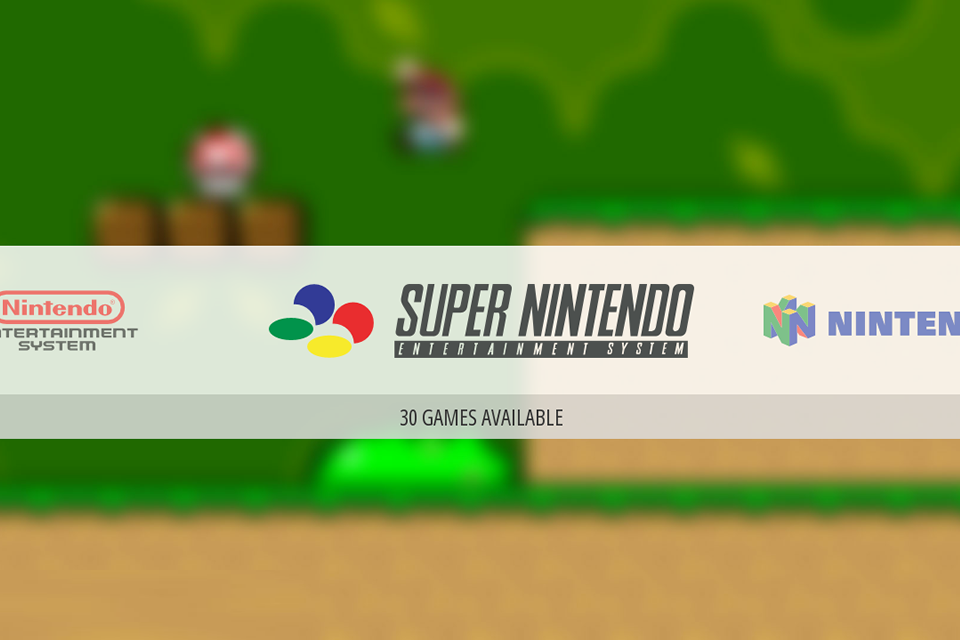
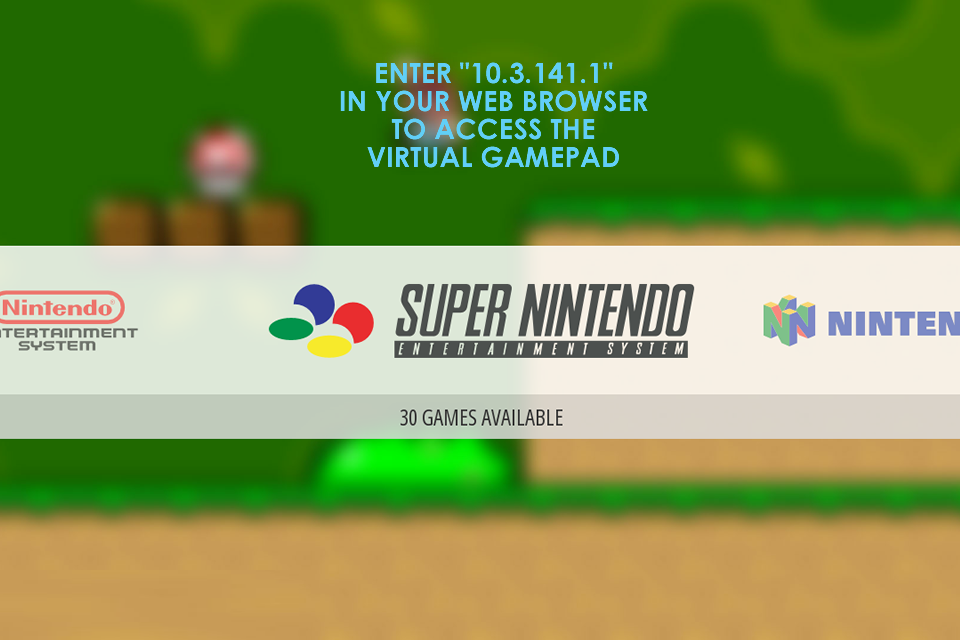
Updated the Preview
Added the right icons and added a notice on the emulation station to instruct the user how to access the gamepad.

Changed region(s): [[0.3438, 0.0938, 0.6875, 0.2812]]

diff --git a/docs/index.html b/docs/index.html
@@ -151,7 +151,7 @@
 						<div class="carousel-caption text-left">
 							<!-- First Line -->
 							<h1 class="carousel-maintitle">Subscription-Free</h1>
-							<h2 class="carousel-title">IPTV & Wireless Internet</h2>
+							<h2 class="carousel-title">Internet & IPTV Service</h2>
 							<div class="button-block">
 								<!-- Buttons Right -->
 								<div class="button-block-right">
@@ -166,7 +166,7 @@
 													<dd>
 														<ul style="display: none; overflow-x:hidden;">
 															<li>
-																<a data-featherlight="iframe" data-featherlight-iframe-allowfullscreen="true" href="demo.html" style="color:#66CCFF!important; white-space: nowrap!important; display:inline-block;"><b style="color:white; font-size:80%;margin-left:-5px; font-weight:lighter;">Interative Demo</b> <span class="glyphicon glyphicon-play" id="dropdown-glyph">&nbsp;</span></a>
+																<a data-featherlight="iframe" data-featherlight-iframe-allowfullscreen="true" href="demo.html" style="color:#66CCFF!important; white-space: nowrap!important; display:inline-block;"><b style="color:white; font-size:80%;margin-left:-5px; font-weight:lighter;">Online Preview</b> <span class="glyphicon glyphicon-play" id="dropdown-glyph">&nbsp;</span></a>
 															</li>
 															<li style="list-style: none"><span class="glyphicon glyphicon-arrow-down" style="text-align:center; color: white; margin-left:50%; opacity:0;">&nbsp;</span></li>
 															<li>
@@ -193,8 +193,8 @@
 					<div class="container carouselone">
 						<div class="carousel-caption text-left">
 							<!-- First Line -->
-							<h1 class="carousel-maintitle">A Smarter Hotspot</h1>
-							<h2 class="carousel-title">Featuring <u style="color:unset;"><a data-featherlight="iframe" data-featherlight-iframe-allowfullscreen="true" href="demo.html" style="color:unset;"><strong>Wave Apps</strong></a></u></h2><!-- Buttons Holder -->
+							<h1 class="carousel-maintitle">A Very Smart Hotspot</h1>
+							<h2 class="carousel-title">Go Ahead. <u style="color:unset;"><a data-featherlight="iframe" data-featherlight-iframe-allowfullscreen="true" href="demo.html" style="color:unset;"><strong>Preview Wave</strong></a></u></h2><!-- Buttons Holder -->
 							<div class="button-block">
 								<!-- Buttons Right -->
 								<div class="button-block-right">
@@ -209,7 +209,7 @@
 													<dd>
 														<ul style="display: none; overflow-x:hidden;">
 															<li>
-																<a data-featherlight="iframe" data-featherlight-iframe-allowfullscreen="true" href="demo.html" style="color:#66CCFF!important; white-space: nowrap!important; display:inline-block;"><b style="color:white; font-size:85%;margin-left:-5px; font-weight:lighter;">Online Demo</b> <span class="glyphicon glyphicon-play" id="dropdown-glyph">&nbsp;</span></a>
+																<a data-featherlight="iframe" data-featherlight-iframe-allowfullscreen="true" href="demo.html" style="color:#66CCFF!important; white-space: nowrap!important; display:inline-block;"><b style="color:white; font-size:85%;margin-left:-5px; font-weight:lighter;">Online Preview</b> <span class="glyphicon glyphicon-play" id="dropdown-glyph">&nbsp;</span></a>
 															</li>
 															<li style="list-style: none"><span class="glyphicon glyphicon-arrow-down" style="text-align:center; color: white; margin-left:50%; opacity:0;">&nbsp;</span></li>
 															<li>
@@ -235,11 +235,11 @@
 		</div><span class="sexy_line"></span> <!-- Video Intro -->
 		<div class="segment">
 			<h2 class="segment-title">Introduction</h2>
-			<p class="segment-paragraph">Wave® is the worlds first <strong>Free Internet and IPTV</strong> solution. The Wave Smart Home Hotspot™ has a built in Celluar Modem which works on select mobile networks. The Hotspot Menu (Dashboard) even features a multi-player game station and smart home media & control system. All of which can be accessed locally and/or remotely. The Wi-Fi Hotspot include most games consoles including the PSP, PS1 & 2 and Nintendo 64 & WII. And there's an IPTV Media Center, Smart Home Control solution (IoT) and IP Camera Monitor. The controllers for the games are emulated, so they can be brought up in most web browsers on most mobile phones.</p><!--== <a class="video-link demo-link" data-video-id="jW_GUwVie3o"></a>      =-->
+			<p class="segment-paragraph">Wave® is the worlds first <strong>Free Internet and IPTV</strong> solution. The Smart Home Hotspot™ has a built in cellular Modem which works on select mobile networks. The Hotspot Menu (Dashboard) even features a multi-player game station and smart home media & control system. All of which can be accessed locally and/or remotely. The Wi-Fi Hotspot include most games consoles including the PSP, PS1 & 2 and Nintendo 64 & WII. And there's an IPTV Media Center, Smart Home Control solution (IoT) and IP Camera Monitor. The controllers for the games are emulated, so they can be brought up in most web browsers on most mobile phones.</p><!--== <a class="video-link demo-link" data-video-id="jW_GUwVie3o"></a>      =-->
 			<h2 class="segment-title">How it Works</h2>
 			<p class="segment-paragraph">Wave® reduces internet and IPTV bills (by as much as 100%) by sponsoring and rewarding you for day to day use of our technology product(s). These rewards are in the form of cryptocurrency and are generated through ad-replacement and cryptocurrency mining, while you surf the internet and/or enjoy other Wave® applications. The funds generated will automatically transfer from your devices built in cryptocurrency wallet, to your internet Service provider (using a cryptocurrency technology called smart contracts). The result is a free internet and IPTV service.</p>
 			<h2 class="segment-title">Getting Started</h2>
-			<p class="segment-paragraph">The 4G/LTE Wi-Fi Hotspot is built to be plug & play. Simply connect the Wave Hotspot to any power outlet and it will establish a connection with your local cell provider and begin broadcasting Wi-Fi speeds of up to 50Mbps of Free Internet. Pre-Order this Product Now. </p>
+			<p class="segment-paragraph">The 4G/LTE Smart Home Hotspot™ is built to be plug & play. Simply connect the device to any power outlet and it will establish a connection with your local cell provider and begin broadcasting Wi-Fi, with Free Internet access and speeds of up to 50Mbps. </p>
 			<a class="snipcart-add-item btn add-to-cart-btn" style="left:0; margin:12px;zoom:3;padding-bottom:4px!important;" href="store/index.html" ><b style="margin:5px;padding:5px;">Order Now</b></a>
 		</div>
 		<div class="segment-bottom"></div>

diff --git a/docs/documents.html b/docs/documents.html
@@ -145,7 +145,7 @@
 								<tbody>
 									<tr>
 										<th class="add-to-cart-columb-title" scope="col" style="width: 49.9097%; opacity:0.5;">
-											<a class="btn btn-lg btn-success" data-featherlight="iframe" data-featherlight-iframe-allowfullscreen="true" href="data/docs/products/4g/build/html/index.html" style="min-width:205px!Important;"><b style="margin-left:5px;"><strong>Smart Home Hub™</strong></b></a> <strong></strong>
+											<a class="btn btn-lg btn-success" data-featherlight="iframe" data-featherlight-iframe-allowfullscreen="true" href="data/docs/products/4g/build/html/index.html" style="min-width:205px!Important;"><b style="margin-left:15px;"><strong>Smart Hotspot™</strong></b></a> <strong></strong>
 										</th>
 										<th class="add-to-cart-columb-title" scope="col" style="width: 49.9097%; opacity:0.5;">
 											<a class="btn btn-secondary role-buttons" href="data/docs/products/4g/build/latex/wave-products-4g.pdf" style="margin-left:0px; margin-top:0px!important; min-height:45px!important; padding:12.5px 10px 10px 10px!important;" target="_popup" title="Download"><span class="glyphicon glyphicon-cloud-download"></span> 0.1</a>

diff --git a/docs/data/docs/products/4g/build/html/introduction.html b/docs/data/docs/products/4g/build/html/introduction.html
@@ -183,7 +183,7 @@
 <h1>The Wave® Smart Hotspot™<a class="headerlink" href="#the-wave-smart-hotspot" title="Permalink to this headline">¶</a></h1>
 <p>The Wave® Smart Hotspot™ is a Single Board Computer e.g. Raspberry Pi , operated by the Wave® operating system: WaveOS™.
 To receive internet access the Smart Hotspot™ uses one of 3 cellular modules: HSPA+ USB Dongle, 4G/LTE HAT or 5G/mmWave Receiver.
-This user guide is for the Smart Hotspot™ only. To understand the celluar modules please reference their user guides.</p>
+This user guide is for the Smart Hotspot™ only. To understand the cellular modules please reference their user guides.</p>
 <p>Image 1.0 - Wave® Smart Hotspot™</p>
 <img alt="_images/config-1.png" src="_images/config-1.png" />
 <p>The Wave® Smart Hotspot™ is not only the worlds first free internet solution. This product is also a highly affordable, all-in-one, <strong>Smart Home Solution</strong>. It works right out of the box, making it today’s easiest and fastest way to transform any house into a fully-intergrated digital smart home. Smart Home features of this product include;</p>

diff --git a/docs/dashboard-demo/css/style.css b/docs/dashboard-demo/css/style.css
@@ -226,13 +226,13 @@ Main Components
   background-image: url(../img/icons/emby.png); 
 }
 .cd-3d-nav li:nth-of-type(2) a::before {
-  background-image: url(../img/icons/remote-control.png);
+  background-image: url(../img/icons/Energy_lightning_power_electric_electricity-512.png);
 }
 .cd-3d-nav li:nth-of-type(3) a::before {
   background-image: url(../img/icons/09-512.png);
 }
 .cd-3d-nav li:nth-of-type(4) a::before {
-  background-image: url(../img/icons/Energy_lightning_power_electric_electricity-512.png);
+  background-image: url(../img/icons/remote-control.png);
 }
 .cd-3d-nav li:nth-of-type(5) a::before {
   background-image: url(../img/icons/138338.png);
